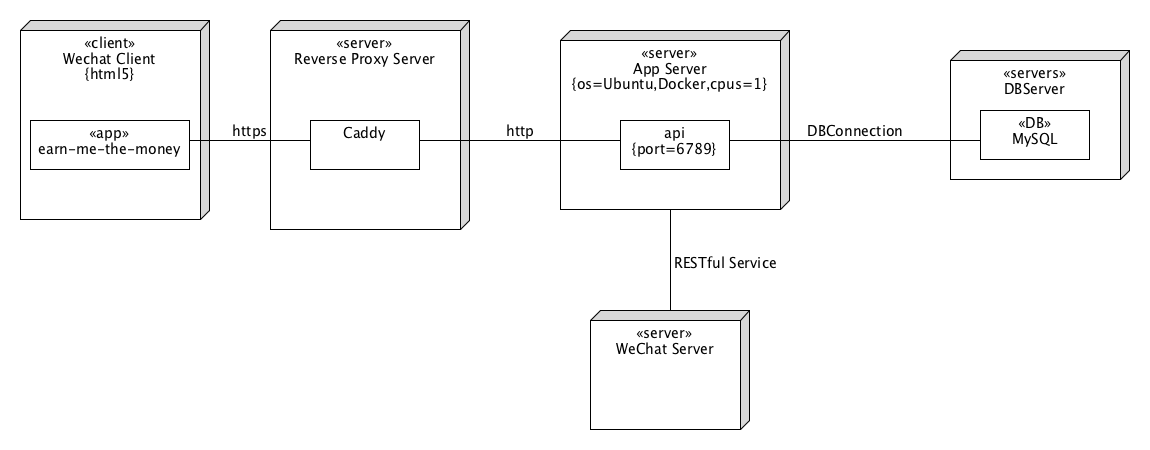
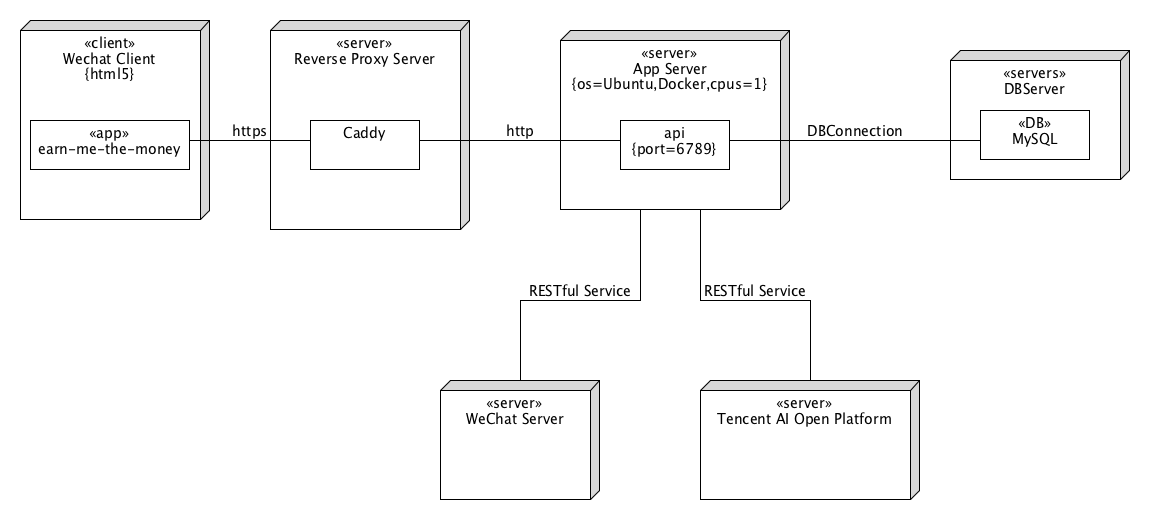
Update deploy doc

diff --git a/Dashboard-后端文档/8.4-部署说明.md b/Dashboard-后端文档/8.4-部署说明.md
@@ -49,6 +49,22 @@ xxx.yyy.zzz {
 4. 在 git 仓库中创建 commit，并为需要用于构建容器的 commit 记录创建 tag，方法为`git tag -a release-v$version -m "Update ...."`，其中`$version`为版本号。
 5. 在服务器通过`sudo docker login --username=$username registry.cn-hangzhou.aliyuncs.com`与固定密码登录阿里云颈项服务
 6. 使用`sudo docker pull registry.cn-hangzhou.aliyuncs.com/$namespace/$repo:[镜像版本号]`拉取镜像
+7. 使用`docker tag emtm-service registry.cn-hangzhou.aliyuncs.com/$namespace/$repo:[镜像版本号]` 标记镜像名称供 composer 使用
+
+我们官方创建的镜像地址为`registry.cn-hangzhou.aliyuncs.com/emtm-web/emtm-service`
+
+### 在`.env`文件中填写信息
+
+`.env`文件中需要的信息如下：
+
+```
+TENCENT_APP_ID=$APPID
+TENCENT_APP_KEY=$APP_KEY
+DATABASE_URL=mysql://root:ROOT_PASSWORD@127.0.0.1:3306/EMTM
+EMTM_INDEX_DIR=./emtm-indexes/
+```
+
+其中`TENCENT_APP_ID`与`TENCENT_APP_KEY`来源于腾讯 AI 开放平台。`EMTM_INDEX_DIR`为搜索功能的索引存储路径。
 
 ### 使用 docker compose 部署
 
